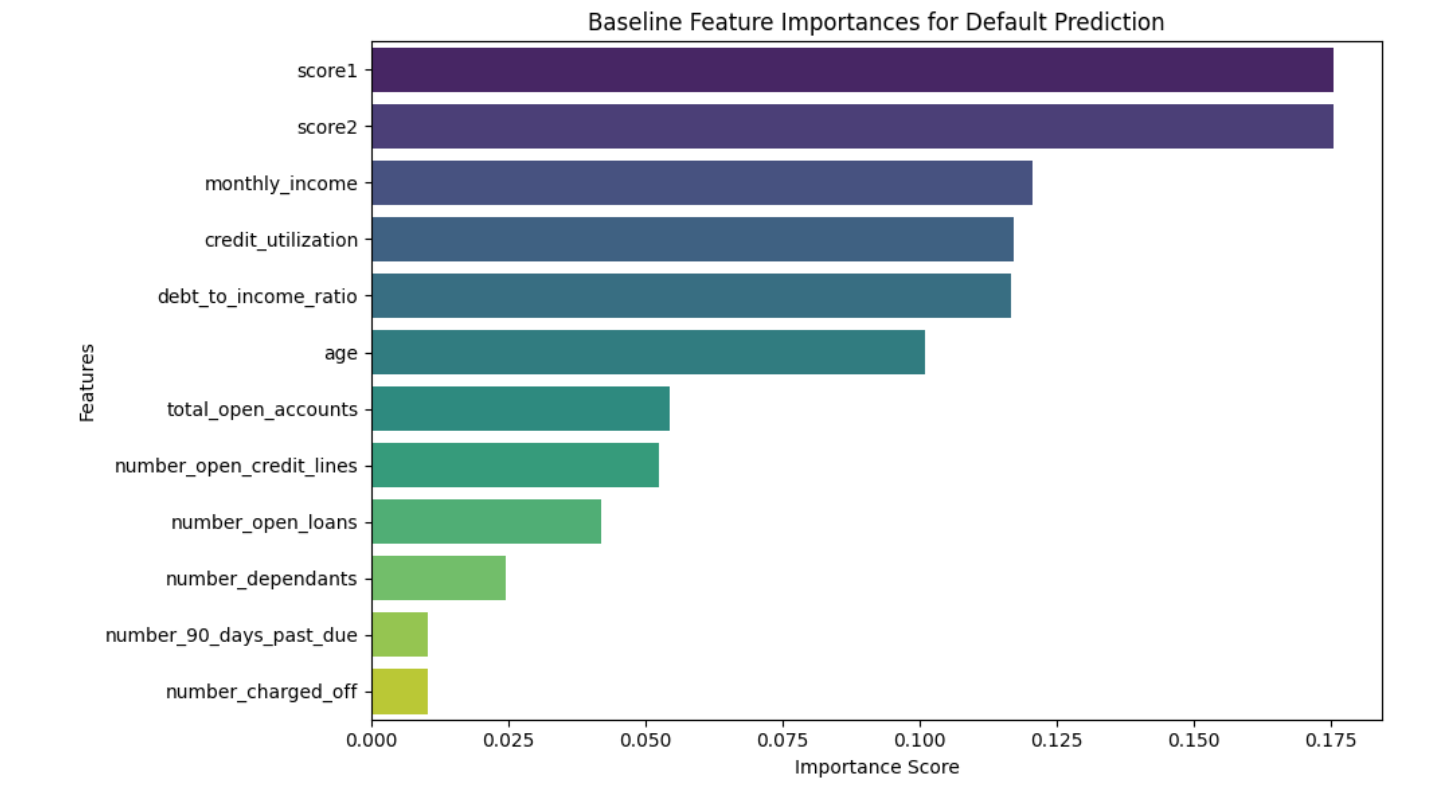
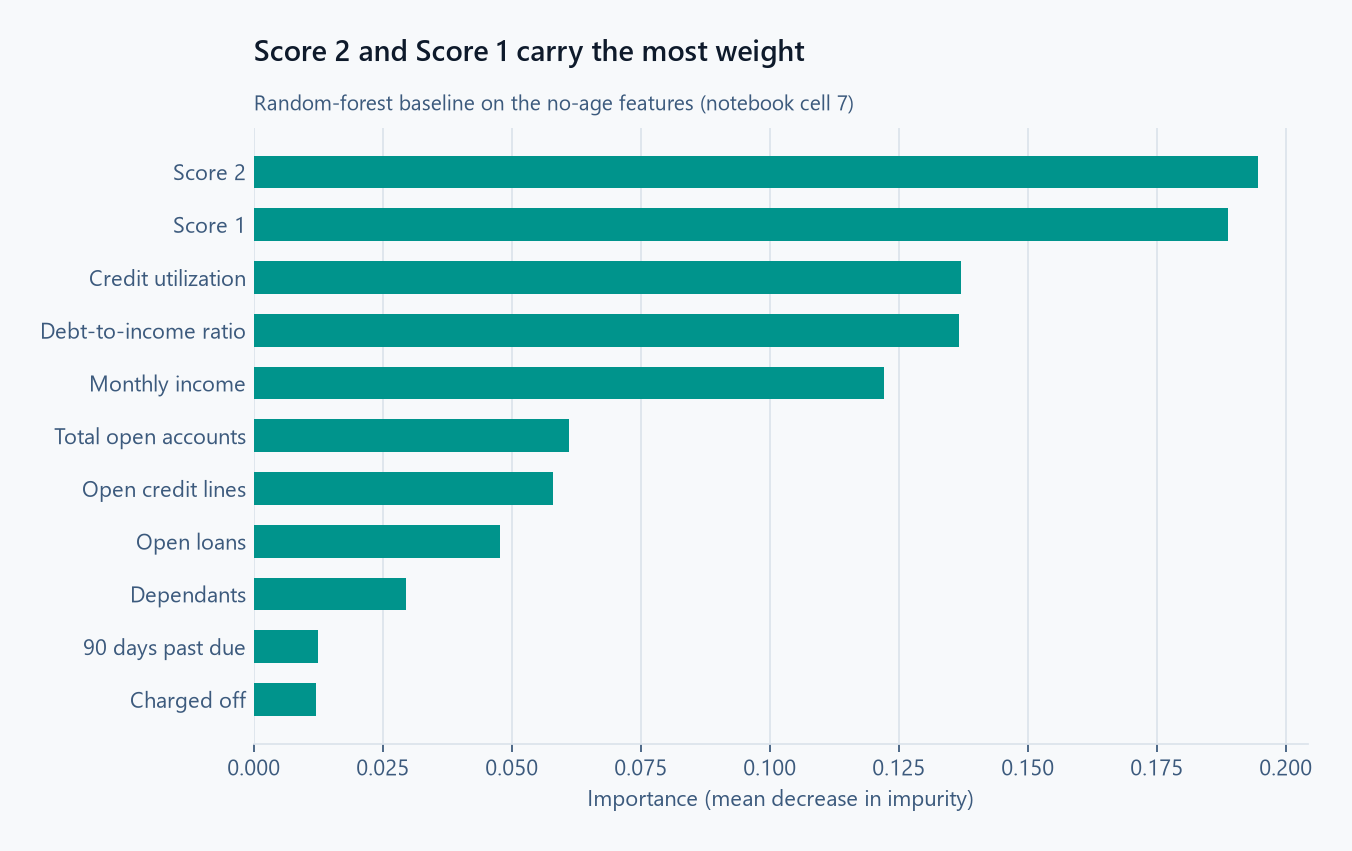
Redraw the charts in the brand theme, with light and dark versions
notebooks/make_charts.py draws all three from the challenge's train.csv:
- Feature importance: the notebook's random-forest baseline on the no-age features. The old PNG predated
  the age removal and still listed age.
- Threshold curve: 10-fold cross-validated scores from the local stand-in ensemble, marking the 0.10
  cutoff chosen out of sample and the original 0.15. The old curve scored the training data.
- SHAP: the notebook's KernelExplainer setup on the stand-in ensemble, since the AutoML model stays in
  Azure. The top five drivers match the notebook's run on the champion.

The README now shows the charts, and its SHAP summary matches them: monthly income and the credit
scores drive the predictions; credit utilization moves them little.

diff --git a/notebooks/make_charts.py b/notebooks/make_charts.py
@@ -1,0 +1,222 @@
+"""Draw the charts in images/ from the challenge's train.csv, in a light and a dark version each.
+
+The AutoML champion stays in the Azure ML workspace, so the threshold and SHAP charts use the local
+stand-in ensemble from validate_locally.py (the same model behind the README's out-of-sample table):
+
+- Feature_Importance: the notebook's random-forest baseline on the no-age features (same code and seed).
+- Precision_recall_curve: 10-fold cross-validated scores, so every customer is scored by a model that
+  never saw them. The notebook's version scored the training data, which overstates recall (README section 5).
+- SHAP: KernelExplainer with a 100-row background on 300 sampled customers, as in the notebook.
+
+Usage (train.csv from the data challenge, not included in this repo; SHAP takes a few minutes):
+    python make_charts.py path/to/train.csv
+
+Each chart is written as images/<name>.png (light) and images/<name>-dark.png. The README shows the dark one
+under GitHub's dark theme with <picture><source media="(prefers-color-scheme: dark)" ...>.
+Colors are the brand chart palettes (validated for contrast and color-vision deficiency).
+"""
+import os
+import sys
+
+import matplotlib
+
+matplotlib.use("Agg")
+import matplotlib.pyplot as plt  # noqa: E402
+import numpy as np  # noqa: E402
+import pandas as pd  # noqa: E402
+import shap  # noqa: E402
+from matplotlib import font_manager  # noqa: E402
+from matplotlib.cm import ScalarMappable  # noqa: E402
+from matplotlib.colors import LinearSegmentedColormap  # noqa: E402
+from sklearn.ensemble import RandomForestClassifier  # noqa: E402
+from sklearn.model_selection import StratifiedKFold, cross_val_predict, train_test_split  # noqa: E402
+
+from validate_locally import CUTOFF, best_f2_cutoff, engineer_features, ensemble  # noqa: E402
+
+OUT = os.path.join(os.path.dirname(os.path.dirname(os.path.abspath(__file__))), "images")
+
+THEMES = {
+    "light": dict(surface="#f7f9fb", ink="#0e1a2b", ink_2="#3c5a7d", muted="#8a9bb0", grid="#dde4ec",
+                  series=["#00948c", "#c2760a", "#5b6fd8"], highlight="#c2760a", accent="#00948c"),
+    "dark": dict(surface="#0e1a2b", ink="#f2f5f9", ink_2="#9fb1c7", muted="#6f86a3", grid="#2b3f58",
+                 series=["#26a59f", "#c8820f", "#7c80ea"], highlight="#f0a742", accent="#26a59f"),
+}
+LABELS = {
+    "score1": "Score 1", "score2": "Score 2", "monthly_income": "Monthly income",
+    "credit_utilization": "Credit utilization", "debt_to_income_ratio": "Debt-to-income ratio",
+    "total_open_accounts": "Total open accounts", "number_open_credit_lines": "Open credit lines",
+    "number_open_loans": "Open loans", "number_dependants": "Dependants",
+    "number_90_days_past_due": "90 days past due", "number_charged_off": "Charged off",
+}
+# Brand headings are Segoe UI at weight 600, which matplotlib only finds as its own family.
+SEMIBOLD = ({"fontfamily": "Segoe UI Semibold", "fontweight": "normal"}
+            if any(f.name == "Segoe UI Semibold" for f in font_manager.fontManager.ttflist)
+            else {"fontweight": "bold"})
+
+
+def compute(path):
+    """Everything the charts need, from the training data."""
+    raw = pd.read_csv(path)
+    X, y = engineer_features(raw), raw["target"]
+
+    # Notebook cell 7: random-forest baseline on the no-age features
+    rf = RandomForestClassifier(n_estimators=100, random_state=42, class_weight="balanced", n_jobs=-1).fit(X, y)
+    importance = pd.Series(rf.feature_importances_, index=X.columns).sort_values(ascending=False)
+
+    # The same out-of-fold scores as validate_locally.py step 2
+    oof = cross_val_predict(ensemble(), X, y, cv=StratifiedKFold(10, shuffle=True, random_state=42),
+                            method="predict_proba")[:, 1]
+    # The cutoff validate_locally.py step 3 chooses on the 80% development split (the README's 0.10)
+    X_dev, _, y_dev, _ = train_test_split(X, y, test_size=0.2, stratify=y, random_state=42)
+    dev_oof = cross_val_predict(ensemble(), X_dev, y_dev, cv=StratifiedKFold(5, shuffle=True, random_state=42),
+                                method="predict_proba")[:, 1]
+
+    # Notebook cell 19, on the stand-in ensemble fitted to all the training data
+    model = ensemble().fit(X, y)
+    background = shap.sample(X, 100, random_state=42)
+    explain = shap.sample(X, 300, random_state=42)
+    explainer = shap.KernelExplainer(
+        lambda rows: model.predict_proba(pd.DataFrame(rows, columns=X.columns))[:, 1], background)
+    return dict(importance=importance, y=y.to_numpy(), oof=oof, chosen=best_f2_cutoff(y_dev, dev_oof),
+                shap_values=explainer.shap_values(explain), shap_X=explain)
+
+
+def threshold_curves(y, proba):
+    """Precision, recall, F1 and F2 at each cutoff."""
+    cutoffs = np.arange(0.02, 0.5001, 0.0025)
+    flagged = proba[None, :] >= cutoffs[:, None]
+    tp = (flagged & (y == 1)).sum(axis=1)
+    precision = np.divide(tp, flagged.sum(axis=1), out=np.full(len(cutoffs), np.nan), where=flagged.sum(axis=1) > 0)
+    recall = tp / (y == 1).sum()
+    f1 = 2 * precision * recall / (precision + recall)
+    f2 = 5 * precision * recall / (4 * precision + recall)
+    return pd.DataFrame(dict(cutoff=cutoffs, precision=precision, recall=recall, f1=f1, f2=f2,
+                             flagged=flagged.mean(axis=1)))
+
+
+def style(t):
+    plt.rcParams.update({
+        "font.family": ["Segoe UI", "DejaVu Sans"], "font.size": 10,
+        "figure.facecolor": t["surface"], "axes.facecolor": t["surface"], "savefig.facecolor": t["surface"],
+        "axes.edgecolor": t["grid"], "axes.labelcolor": t["ink_2"], "text.color": t["ink"],
+        "xtick.color": t["ink_2"], "ytick.color": t["ink_2"],
+        "axes.spines.top": False, "axes.spines.right": False,
+        "axes.titlesize": 13, "axes.titlelocation": "left",
+        "axes.titlecolor": t["ink"],
+    })
+
+
+def titles(fig, ax, t, title, subtitle):
+    ax.set_title(title, pad=30, **SEMIBOLD)
+    ax.text(0, 1.02, subtitle, transform=ax.transAxes, color=t["ink_2"], fontsize=9.5, va="bottom")
+
+
+def save(fig, name, mode):
+    path = os.path.join(OUT, f"{name}.png" if mode == "light" else f"{name}-dark.png")
+    fig.savefig(path, dpi=160, bbox_inches="tight", pad_inches=0.25)
+    plt.close(fig)
+    print(f"wrote images/{os.path.basename(path)}")
+
+
+def draw_importance(importance, t, mode):
+    fig, ax = plt.subplots(figsize=(8.5, 5))
+    order = importance.sort_values()
+    ax.barh([LABELS[c] for c in order.index], order.values, height=0.62, color=t["accent"])
+    ax.xaxis.grid(True, color=t["grid"], linewidth=0.8)
+    ax.set_axisbelow(True)
+    ax.spines["left"].set_visible(False)
+    ax.tick_params(axis="y", length=0)
+    ax.set_xlabel("Importance (mean decrease in impurity)")
+    top = importance.index[:2]
+    titles(fig, ax, t, f"{LABELS[top[0]]} and {LABELS[top[1]]} carry the most weight",
+           "Random-forest baseline on the no-age features (notebook cell 7)")
+    save(fig, "Feature_Importance", mode)
+
+
+def draw_threshold(y, oof, chosen, t, mode):
+    curves = threshold_curves(y, oof)
+    # Stop where under 1% of accounts are flagged; past that, precision is noise from a handful of accounts
+    curves = curves[curves["flagged"] >= 0.01]
+    plateau = curves.loc[curves["f2"] >= curves["f2"].max() - 0.005, "cutoff"]
+    best = curves.iloc[(curves["cutoff"] - chosen).abs().argmin()]
+    fig, ax = plt.subplots(figsize=(9, 5.2))
+    ax.plot(curves["cutoff"], curves["precision"], color=t["series"][0], linewidth=2, label="Precision")
+    ax.plot(curves["cutoff"], curves["recall"], color=t["series"][2], linewidth=2, label="Recall (defaults caught)")
+    ax.plot(curves["cutoff"], curves["f1"], color=t["muted"], linewidth=1.5, linestyle=(0, (4, 3)), label="F1")
+    ax.plot(curves["cutoff"], curves["f2"], color=t["highlight"], linewidth=2.5, label="F2 (recall weighted 4x)")
+    # The brand motif: an amber dot on the optimum
+    ax.scatter([best["cutoff"]], [best["f2"]], s=70, color=t["highlight"], edgecolor=t["surface"], linewidth=2,
+               zorder=5)
+    ax.annotate(f"{chosen:.2f}: the cutoff chosen out of sample\n{best['recall']:.0%} of defaults caught, "
+                f"{best['precision']:.0%} precision,\n{best['flagged']:.0%} of accounts flagged",
+                (best["cutoff"], best["f2"]), xytext=(0.62, 0.62), textcoords="axes fraction", color=t["ink"],
+                fontsize=9.5, va="top",
+                arrowprops=dict(arrowstyle="-", color=t["muted"], linewidth=0.8, shrinkA=4, shrinkB=6))
+    original = curves.iloc[(curves["cutoff"] - CUTOFF).abs().argmin()]
+    ax.axvline(CUTOFF, color=t["muted"], linewidth=1, linestyle=":")
+    ax.text(CUTOFF + 0.004, 0.97, f"{CUTOFF:.2f}: original cutoff\n{original['recall']:.0%} caught out of sample",
+            color=t["ink_2"], fontsize=9, va="top", transform=ax.get_xaxis_transform())
+    ax.set_xlim(0, np.ceil(curves["cutoff"].max() * 20) / 20)
+    ax.set_ylim(0, 1.02)
+    ax.yaxis.set_major_formatter(plt.FuncFormatter(lambda v, _: f"{v:.0%}"))
+    ax.yaxis.grid(True, color=t["grid"], linewidth=0.8)
+    ax.set_axisbelow(True)
+    ax.set_xlabel("Decision cutoff (predicted probability of default)")
+    ax.legend(loc="upper right", bbox_to_anchor=(1, 0.98), frameon=False, labelcolor=t["ink_2"], fontsize=9)
+    titles(fig, ax, t, f"Out of sample, F2 is nearly flat from {plateau.min():.2f} to {plateau.max():.2f}",
+           f"10-fold cross-validated scores from the local stand-in ensemble, {len(y):,} customers")
+    save(fig, "Precision_recall_curve", mode)
+
+
+def swarm_offsets(values, row_height=0.4, bins=100):
+    """SHAP's beeswarm layout: stack points that share a bin, alternating above and below the row."""
+    span = values.max() - values.min()
+    binned = np.round(bins * (values - values.min()) / (span if span else 1))
+    offsets, layer, last = np.zeros(len(values)), 0, None
+    for i in np.argsort(binned, kind="stable"):
+        layer = layer + 1 if binned[i] == last else 0
+        offsets[i] = np.ceil(layer / 2) * (1 if layer % 2 else -1)
+        last = binned[i]
+    return offsets * 0.9 * row_height / max(np.abs(offsets).max(), 1)
+
+
+def draw_shap(shap_values, X, t, mode):
+    cmap = LinearSegmentedColormap.from_list("feature_value", [t["series"][0], t["muted"], t["series"][1]])
+    order = np.argsort(np.abs(shap_values).mean(axis=0))  # least important first, so the top row is the largest
+    fig, ax = plt.subplots(figsize=(9, 5.8))
+    for row, j in enumerate(order):
+        values, feature = shap_values[:, j], X.iloc[:, j].to_numpy(dtype=float)
+        low, high = np.percentile(feature, [5, 95])
+        if low == high:
+            low, high = feature.min(), feature.max()
+        shade = np.clip((feature - low) / (high - low), 0, 1) if high > low else np.full(len(feature), 0.5)
+        ax.axhline(row, color=t["grid"], linewidth=0.8, zorder=0)
+        ax.scatter(values, row + swarm_offsets(values), c=cmap(shade), s=13, linewidth=0.3,
+                   edgecolor=t["surface"], zorder=2)
+    ax.axvline(0, color=t["muted"], linewidth=1, zorder=1)
+    ax.set_yticks(range(len(order)), [LABELS[X.columns[j]] for j in order])
+    ax.set_ylim(-0.6, len(order) - 0.4)
+    ax.spines["left"].set_visible(False)
+    ax.tick_params(axis="y", length=0)
+    ax.set_xlabel("SHAP value (change in predicted probability of default)")
+    bar = fig.colorbar(ScalarMappable(cmap=cmap), ax=ax, ticks=[0, 1], aspect=40, pad=0.02, fraction=0.03)
+    bar.ax.set_yticklabels(["Low", "High"])
+    bar.ax.tick_params(length=0, colors=t["ink_2"])
+    bar.outline.set_visible(False)
+    bar.set_label("Feature value", color=t["ink_2"])
+    top = X.columns[order[-1]]
+    titles(fig, ax, t, f"{LABELS[top]} moves the predicted default risk the most",
+           f"SHAP values for {len(X)} sampled customers, local stand-in ensemble (KernelExplainer)")
+    save(fig, "SHAP", mode)
+
+
+def draw_all(data):
+    for mode, t in THEMES.items():
+        style(t)
+        draw_importance(data["importance"], t, mode)
+        draw_threshold(data["y"], data["oof"], data["chosen"], t, mode)
+        draw_shap(data["shap_values"], data["shap_X"], t, mode)
+
+
+if __name__ == "__main__":
+    draw_all(compute(sys.argv[1] if len(sys.argv) > 1 else "train.csv"))

diff --git a/README.md b/README.md
@@ -10,8 +10,9 @@ The champion model, a `VotingEnsemble`, was built to identify high-risk accounts
 ## Repository Structure
 *   `notebooks/Notebook.ipynb`: Feature engineering, Azure AutoML orchestration, scoring, threshold analysis, and SHAP.
 *   `notebooks/validate_locally.py`: Out-of-sample validation of the model and cutoff (runs locally, no Azure needed).
+*   `notebooks/make_charts.py`: Draws the charts in `images/` from the challenge's `train.csv`, in light and dark versions.
 *   `presentations/Purpose_Data_Challenge.pdf`: The original executive summary as submitted. Its threshold metrics were measured on training data; see [Out-of-Sample Validation](#5-out-of-sample-validation) for corrected figures.
-*   `images/`: SHAP output, feature importances, and the precision/recall threshold curve.
+*   `images/`: Feature importances, SHAP values, and the out-of-sample precision/recall threshold curve.
 
 ## Key Technical Highlights
 
@@ -19,6 +20,13 @@ The champion model, a `VotingEnsemble`, was built to identify high-risk accounts
 To support compliance with the **Equal Credit Opportunity Act (ECOA)**, age and date of birth were removed from the champion model's features. Additional transformations included:
 *   Consolidating active financial obligations (`total_open_accounts`).
 *   Correcting a negative-dependents anomaly (`-1` recoded to `0`) and aligning column types to the registered model's schema.
+
+A random-forest baseline on the no-age features ranks the two credit scores first, followed by credit utilization, debt-to-income and monthly income:
+
+<picture>
+  <source media="(prefers-color-scheme: dark)" srcset="images/Feature_Importance-dark.png">
+  <img alt="Random-forest feature importances on the no-age features: Score 2 and Score 1 near 0.19, credit utilization and debt-to-income near 0.14, monthly income 0.12, and the account counts below 0.07" src="images/Feature_Importance.png">
+</picture>
 
 ### 2. Azure AutoML Orchestration
 The pipeline points AutoML directly at Azure Blob Storage via `MLTable`, avoiding local memory limits.
@@ -32,7 +40,14 @@ The financial loss of a missed charge-off (false negative) outweighs the frictio
 The original analysis set the cutoff at **0.15** using a precision/recall curve computed on the training data. Because the challenge's test set has no labels, that curve scored the same rows the model was trained on, which overstates performance. Section 5 re-measures it properly.
 
 ### 4. Global Interpretability
-SHAP (via a `KernelExplainer` wrapper) was applied to the ensemble to identify the portfolio's main drivers of risk. Lower credit scores and higher credit utilization were the dominant upward drivers of default risk.
+SHAP (via a `KernelExplainer` wrapper) was applied to the ensemble to identify the portfolio's main drivers of risk. Lower monthly income and lower credit scores were the dominant upward drivers of default risk; credit utilization and debt-to-income moved predictions far less.
+
+The AutoML model stays in the Azure ML workspace, so the chart below repeats the notebook's SHAP setup (a 100-row background, 300 sampled customers) on the local stand-in ensemble from section 5. Its top five drivers come out in the same order as the notebook's run on the AutoML champion.
+
+<picture>
+  <source media="(prefers-color-scheme: dark)" srcset="images/SHAP-dark.png">
+  <img alt="SHAP beeswarm for 300 customers: low monthly income and low scores push the predicted default probability up by as much as 0.20; credit utilization, debt-to-income and the account counts stay mostly within 0.05 of zero" src="images/SHAP.png">
+</picture>
 
 ### 5. Out-of-Sample Validation
 `notebooks/validate_locally.py` rebuilds the no-age features and a comparable soft-voting ensemble (LightGBM + XGBoost + logistic regression), then measures performance on customers the model has not seen. Default rate: 10.2% of 20,839 customers.
@@ -43,6 +58,11 @@ SHAP (via a `KernelExplainer` wrapper) was applied to the ensemble to identify t
 | 10-fold cross-validation | 0.15 | 56.5% | 23.3% | 0.76 |
 | Held-out 20%, original cutoff | 0.15 | 58.0% | 23.1% | 0.76 |
 | **Held-out 20%, cutoff chosen on the other 80%** | **0.10** | **74.6%** | **19.8%** | **0.76** |
+
+<picture>
+  <source media="(prefers-color-scheme: dark)" srcset="images/Precision_recall_curve-dark.png">
+  <img alt="Precision, recall, F1 and F2 against the decision cutoff on 10-fold cross-validated scores: F2 is nearly flat from 0.08 to 0.10; at 0.10, 74% of defaults are caught at 20% precision with 38% of accounts flagged; the original 0.15 cutoff catches 56%" src="images/Precision_recall_curve.png">
+</picture>
 
 **Takeaways:**
 *   The original "75–80% of defaults caught" figure was a training-data result. At the same 0.15 cutoff, the model catches about 57% of defaults on unseen customers.
